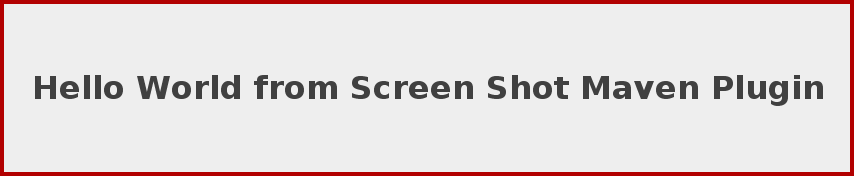
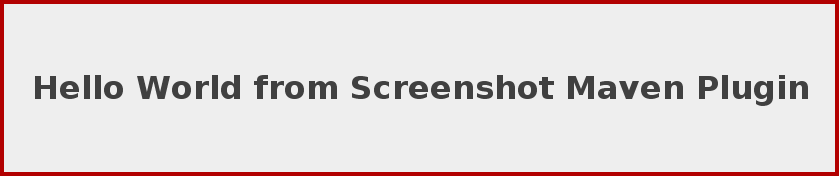
Deploy goranstack/screenshot-maven-plugin to github.com/goranstack/screenshot-maven-plugin.git:gh-pages

Changed region(s): [[0.031, 0.4261, 0.9607, 0.5966]]

diff --git a/plugin-info/javadoc-mojo.html b/plugin-info/javadoc-mojo.html
@@ -1,5 +1,5 @@
 <!DOCTYPE html PUBLIC "-//W3C//DTD XHTML 1.0 Transitional//EN" "http://www.w3.org/TR/xhtml1/DTD/xhtml1-transitional.dtd">
-<!-- Generated by Apache Maven Doxia Site Renderer 1.8 from target/generated-site/xdoc/javadoc-mojo.xml at 2018-02-01 -->
+<!-- Generated by Apache Maven Doxia Site Renderer 1.8 from target/generated-site/xdoc/javadoc-mojo.xml at 2018-02-06 -->
 <html xmlns="http://www.w3.org/1999/xhtml" xml:lang="en" lang="en">
   <head>
     <meta http-equiv="Content-Type" content="text/html; charset=UTF-8" />
@@ -24,7 +24,7 @@ Screenshot Maven Plugin
     </div>
     <div id="breadcrumbs">
       <div class="xleft">
-        <span id="publishDate">Last Published: 2018-02-01</span>
+        <span id="publishDate">Last Published: 2018-02-06</span>
           &nbsp;| <span id="projectVersion">Version: 0.0.8-SNAPSHOT</span>
       </div>
       <div class="xright"><a href="./" title="Screenshot Maven Plugin">Screenshot Maven Plugin</a>      </div>
@@ -135,7 +135,7 @@ encoding of the platform will be used.<br /></td>
             
 <td><tt>-</tt></td>
             
-<td>If true, the Java source files of the screen shot target classes
+<td>If true, the Java source files of the screenshot target classes
 will be checked for missing &lt;img src=&quot;doc-files/xxxxxxx.png&quot;&gt;
 tags and missing tags will be added. The implementation of this
 feature are experimental and somewhat naive so use this with care.
@@ -191,7 +191,7 @@ encoding of the platform will be used.</div>
         </ul><hr />
 <p><b><a name="updateSrcFiles">updateSrcFiles</a>:</b></p>
         
-<div>If true, the Java source files of the screen shot target classes
+<div>If true, the Java source files of the screenshot target classes
 will be checked for missing &lt;img src=&quot;doc-files/xxxxxxx.png&quot;&gt;
 tags and missing tags will be added. The implementation of this
 feature are experimental and somewhat naive so use this with care.

diff --git a/plugin-info/project-reports.html b/plugin-info/project-reports.html
@@ -1,5 +1,5 @@
 <!DOCTYPE html PUBLIC "-//W3C//DTD XHTML 1.0 Transitional//EN" "http://www.w3.org/TR/xhtml1/DTD/xhtml1-transitional.dtd">
-<!-- Generated by Apache Maven Doxia Site Renderer 1.8 from org.apache.maven.plugins:maven-site-plugin:3.7:CategorySummaryDocumentRenderer at 2018-02-01 -->
+<!-- Generated by Apache Maven Doxia Site Renderer 1.8 from org.apache.maven.plugins:maven-site-plugin:3.7:CategorySummaryDocumentRenderer at 2018-02-06 -->
 <html xmlns="http://www.w3.org/1999/xhtml" xml:lang="en" lang="en">
   <head>
     <meta http-equiv="Content-Type" content="text/html; charset=UTF-8" />
@@ -24,7 +24,7 @@ Screenshot Maven Plugin
     </div>
     <div id="breadcrumbs">
       <div class="xleft">
-        <span id="publishDate">Last Published: 2018-02-01</span>
+        <span id="publishDate">Last Published: 2018-02-06</span>
           &nbsp;| <span id="projectVersion">Version: 0.0.8-SNAPSHOT</span>
       </div>
       <div class="xright"><a href="./" title="Screenshot Maven Plugin">Screenshot Maven Plugin</a>      </div>

diff --git a/plugin-info/plugin-info.html b/plugin-info/plugin-info.html
@@ -1,5 +1,5 @@
 <!DOCTYPE html PUBLIC "-//W3C//DTD XHTML 1.0 Transitional//EN" "http://www.w3.org/TR/xhtml1/DTD/xhtml1-transitional.dtd">
-<!-- Generated by Apache Maven Doxia Site Renderer 1.8 from org.apache.maven.plugins:maven-plugin-plugin:3.5:report at 2018-02-01 -->
+<!-- Generated by Apache Maven Doxia Site Renderer 1.8 from org.apache.maven.plugins:maven-plugin-plugin:3.5:report at 2018-02-06 -->
 <html xmlns="http://www.w3.org/1999/xhtml" xml:lang="en" lang="en">
   <head>
     <meta http-equiv="Content-Type" content="text/html; charset=UTF-8" />
@@ -24,7 +24,7 @@ Screenshot Maven Plugin
     </div>
     <div id="breadcrumbs">
       <div class="xleft">
-        <span id="publishDate">Last Published: 2018-02-01</span>
+        <span id="publishDate">Last Published: 2018-02-06</span>
           &nbsp;| <span id="projectVersion">Version: 0.0.8-SNAPSHOT</span>
       </div>
       <div class="xright"><a href="./" title="Screenshot Maven Plugin">Screenshot Maven Plugin</a>      </div>

diff --git a/plugin-info/splashscreen-mojo.html b/plugin-info/splashscreen-mojo.html
@@ -1,5 +1,5 @@
 <!DOCTYPE html PUBLIC "-//W3C//DTD XHTML 1.0 Transitional//EN" "http://www.w3.org/TR/xhtml1/DTD/xhtml1-transitional.dtd">
-<!-- Generated by Apache Maven Doxia Site Renderer 1.8 from target/generated-site/xdoc/splashscreen-mojo.xml at 2018-02-01 -->
+<!-- Generated by Apache Maven Doxia Site Renderer 1.8 from target/generated-site/xdoc/splashscreen-mojo.xml at 2018-02-06 -->
 <html xmlns="http://www.w3.org/1999/xhtml" xml:lang="en" lang="en">
   <head>
     <meta http-equiv="Content-Type" content="text/html; charset=UTF-8" />
@@ -24,7 +24,7 @@ Screenshot Maven Plugin
     </div>
     <div id="breadcrumbs">
       <div class="xleft">
-        <span id="publishDate">Last Published: 2018-02-01</span>
+        <span id="publishDate">Last Published: 2018-02-06</span>
           &nbsp;| <span id="projectVersion">Version: 0.0.8-SNAPSHOT</span>
       </div>
       <div class="xright"><a href="./" title="Screenshot Maven Plugin">Screenshot Maven Plugin</a>      </div>

diff --git a/plugin-info/gallery-mojo.html b/plugin-info/gallery-mojo.html
@@ -1,5 +1,5 @@
 <!DOCTYPE html PUBLIC "-//W3C//DTD XHTML 1.0 Transitional//EN" "http://www.w3.org/TR/xhtml1/DTD/xhtml1-transitional.dtd">
-<!-- Generated by Apache Maven Doxia Site Renderer 1.8 from target/generated-site/xdoc/gallery-mojo.xml at 2018-02-01 -->
+<!-- Generated by Apache Maven Doxia Site Renderer 1.8 from target/generated-site/xdoc/gallery-mojo.xml at 2018-02-06 -->
 <html xmlns="http://www.w3.org/1999/xhtml" xml:lang="en" lang="en">
   <head>
     <meta http-equiv="Content-Type" content="text/html; charset=UTF-8" />
@@ -24,7 +24,7 @@ Screenshot Maven Plugin
     </div>
     <div id="breadcrumbs">
       <div class="xleft">
-        <span id="publishDate">Last Published: 2018-02-01</span>
+        <span id="publishDate">Last Published: 2018-02-06</span>
           &nbsp;| <span id="projectVersion">Version: 0.0.8-SNAPSHOT</span>
       </div>
       <div class="xright"><a href="./" title="Screenshot Maven Plugin">Screenshot Maven Plugin</a>      </div>

diff --git a/gallery/gallery.html b/gallery/gallery.html
@@ -522,7 +522,7 @@ table.CodeRay td.code>pre{padding:0}
 <h1>Screenshot Gallery</h1>
 <div class="details">
 <span id="revnumber">version 0.0.8-SNAPSHOT,</span>
-<span id="revdate">2018-02-01T11:09:17Z</span>
+<span id="revdate">2018-02-06T09:41:58Z</span>
 </div>
 <div id="toc" class="toc2">
 <div id="toctitle">Table of Contents</div>
@@ -607,7 +607,7 @@ table.CodeRay td.code>pre{padding:0}
 <div id="footer">
 <div id="footer-text">
 Version 0.0.8-SNAPSHOT<br>
-Last updated 2018-02-01 11:10:00 UTC
+Last updated 2018-02-06 09:42:35 UTC
 </div>
 </div>
 </body>

diff --git a/index.html b/index.html
@@ -522,7 +522,7 @@ table.CodeRay td.code>pre{padding:0}
 <h1>Screenshot Maven Plugin</h1>
 <div class="details">
 <span id="revnumber">version 0.0.8-SNAPSHOT,</span>
-<span id="revdate">2018-02-01T11:10:13Z</span>
+<span id="revdate">2018-02-06T09:42:50Z</span>
 </div>
 </div>
 <div id="content">
@@ -609,7 +609,7 @@ rm -rf .git</code></pre>
 <div id="footer">
 <div id="footer-text">
 Version 0.0.8-SNAPSHOT<br>
-Last updated 2018-02-01 11:09:05 UTC
+Last updated 2018-02-06 09:41:48 UTC
 </div>
 </div>
 </body>
